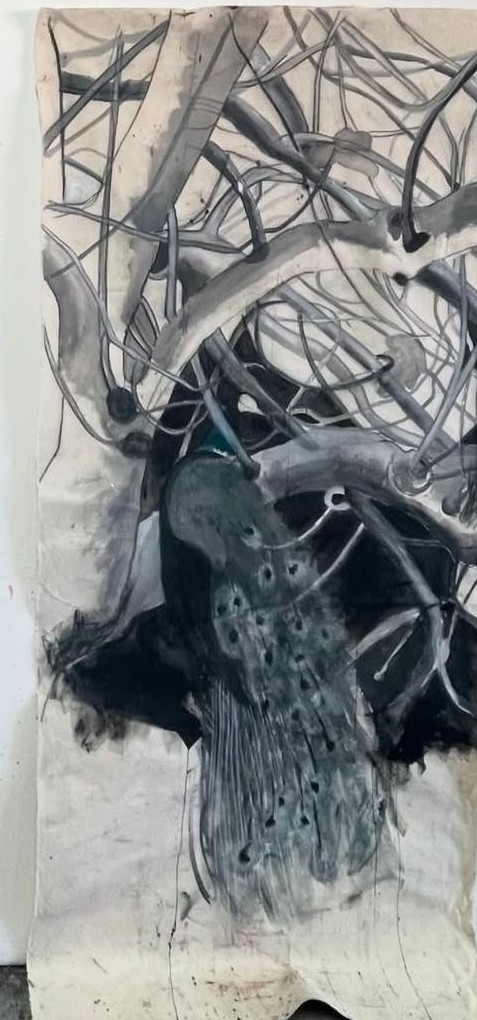
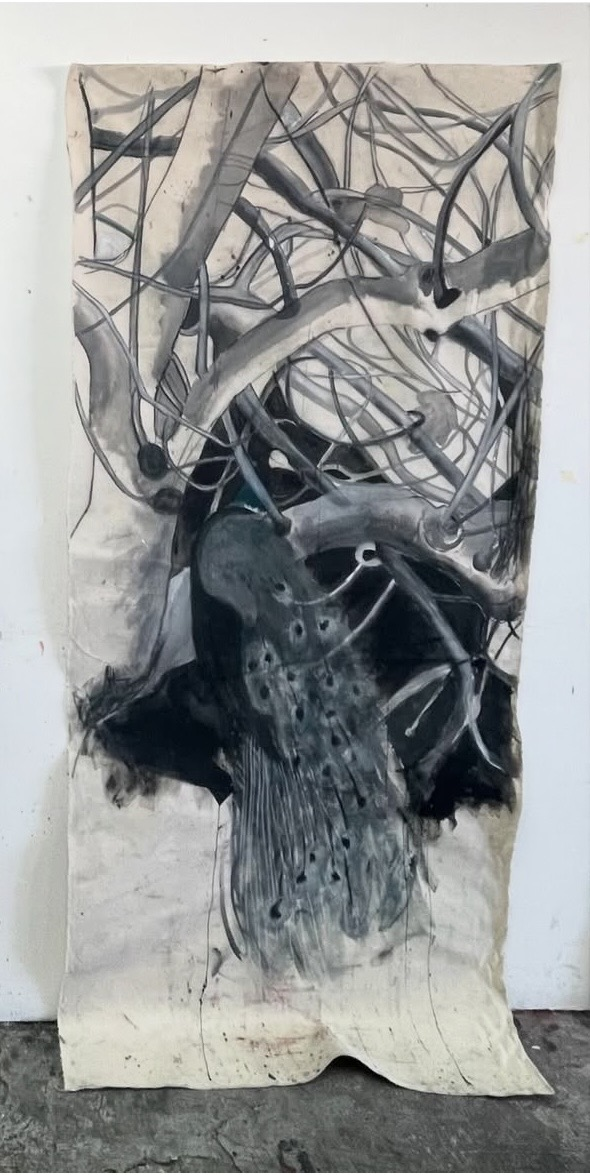
Restore originals for Pickok, Leopards, Sleeping, and The Long Man; update About section with CV lines

diff --git a/paintings.js b/paintings.js
@@ -20,10 +20,10 @@ const PAINTINGS = [
     description: "",
   },
   {
-    title: "Sleeping",
+    title: "The Long Man",
     year: 2025,
     medium: "Mixed media on canvas",
-    size: "88 x 240 cm",
+    size: "69.5 x 88 cm",
     image: "images/The long man, 2025, mixed media on canvas 69.5x88 cm.jpg",
     description: "",
   },
@@ -183,11 +183,11 @@ const PAINTINGS = [
     description: "",
   },
   {
-    title: "Untitled",
+    title: "Leopards",
     year: 2024,
     medium: "Mixed media on canvas",
     size: "100 x 240 cm",
-    image: "images/Untitled, 2024, mixed media on canvas 100x240 cm.jpg",
+    image: "images/Leopards, 2024, mixed media on canvas 100x240 cm.jpg",
     description: "",
   },
   {

diff --git a/index.html b/index.html
@@ -23,8 +23,9 @@
 
     <section id="about" class="about">
       <h2>About</h2>
-      <p>My work moves between the figurative and the abstract, built from photographs that I rework through charcoal, acrylic, oil, and graphite on large-scale canvas. I draw on techniques from the world of textile - dyeing and washing the canvas before and after painting. I'm drawn to charged, quiet states - moments that hold tension beneath a still surface. I don't set out to soften what's difficult; I try to give it a form that can be looked at.</p>
-      <p>I trained at Bezalel Academy of Art and Design and hold a master's degree in integrated design from HIT. I currently work from a shared studio in Tel Aviv, where I'm developing a growing, coherent body of work.</p>
+      <p class="about-cv">1999, BFA, Bezalel Academy of Art and Design, Jerusalem<br>2019, M.Des, Integrated Design, HIT - Holon Institute of Technology</p>
+      <p>My work moves between the figurative and the abstract, built from photographs that I rework through charcoal, acrylic, oil, and graphite on large-scale canvas. I draw on techniques from the world of textile - dyeing and washing the canvas before and after painting.</p>
+      <p>I'm drawn to charged, quiet states - moments that hold tension beneath a still surface. I don't set out to soften what's difficult; I try to give it a form that can be looked at.</p>
     </section>
 
     <section id="contact" class="contact">